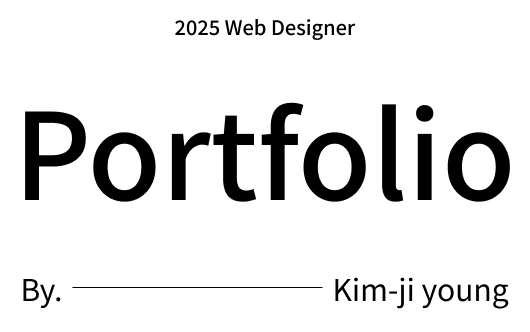
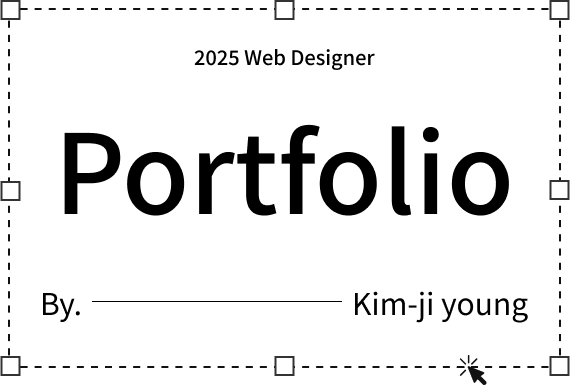
인트로 페이지 수정

diff --git a/portfolio/intropage/style/index.css b/portfolio/intropage/style/index.css
@@ -35,6 +35,8 @@
     position: fixed; right: 50px; bottom: 50px; z-index: 700;
     width: 35px; height: 55px; border: 2px solid #222;
     border-radius: 30px;
+    background-color: #FFF;
+    box-shadow: 0 2px 4px rgba(0,0,0,0.5);
 }
 .scroll_bg .scroll {
     background-color: #222; width: 5px; height: 10px;
@@ -53,9 +55,11 @@
 
 
 /* ===================================== 메인 1행 인트로*/
-#main .swiper-wrapper .intro {}
+#main .swiper-wrapper .intro {
+    background: url(../image/background.jpg);
+}
 #main .swiper-wrapper .intro h1 {
-    max-width: 530px; margin: 140px auto;
+    max-width: 530px; margin: 159px auto 100px;
     position: relative; top: 30px;
 }
 #main .swiper-wrapper .intro h1 > img {width: 100%;}
